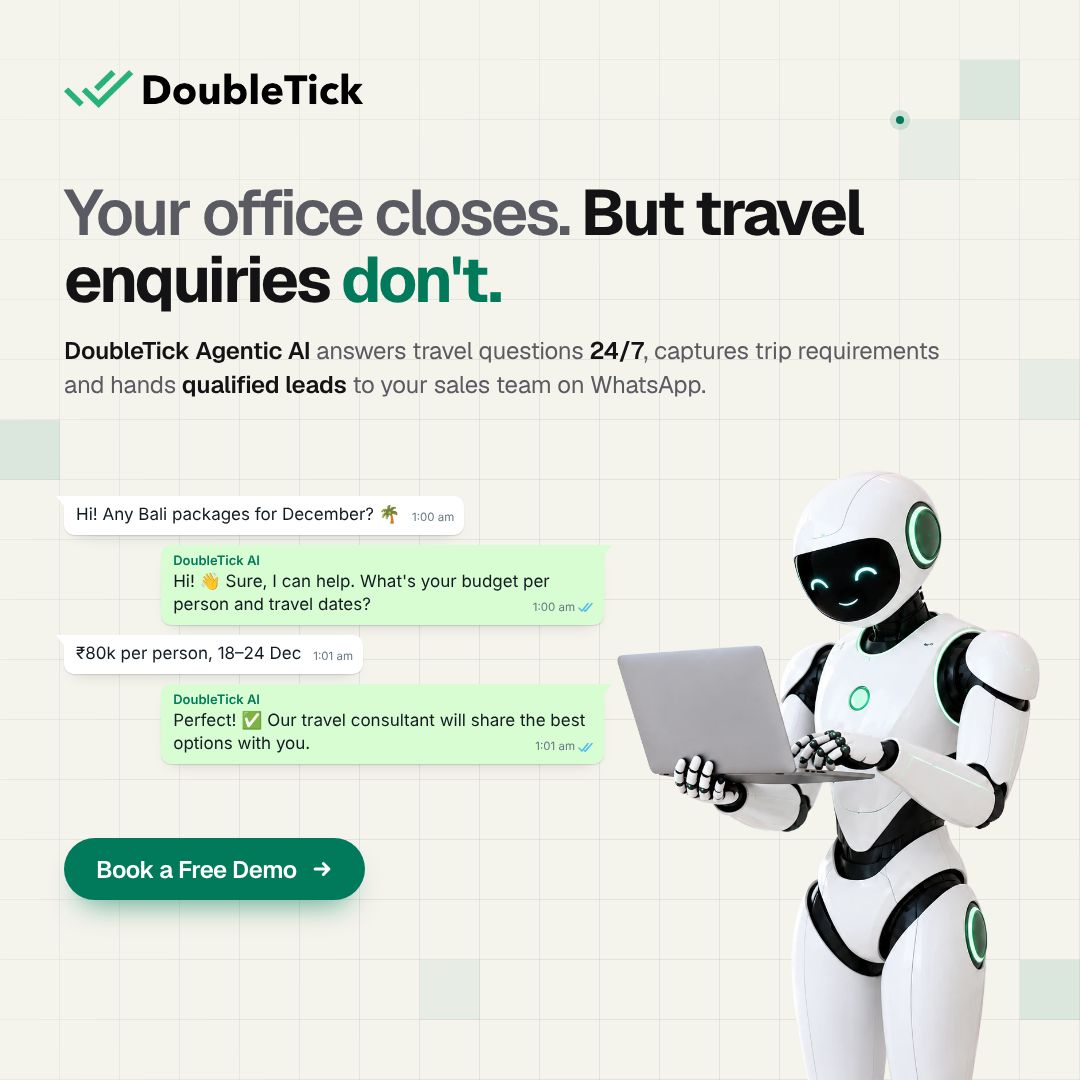
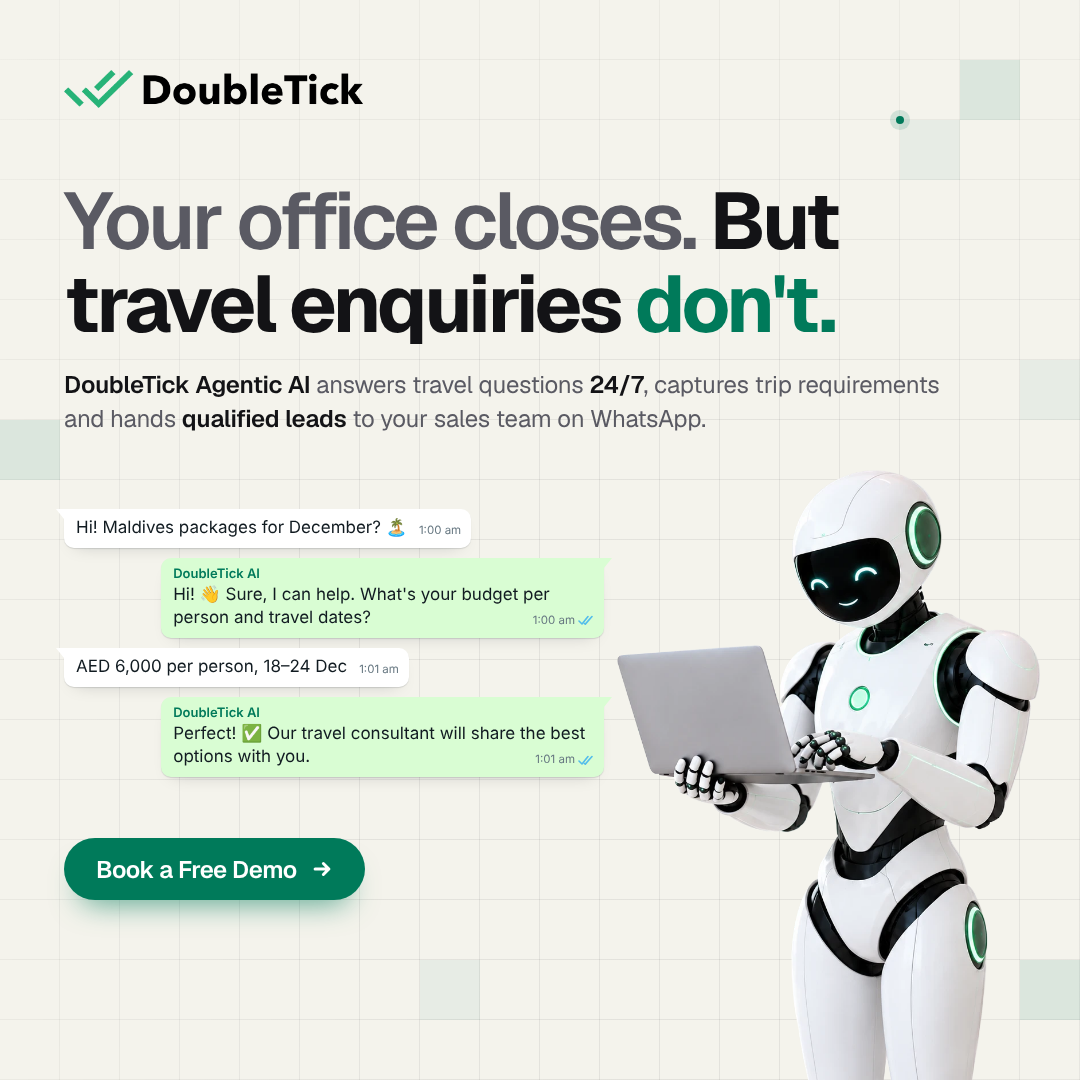
feat: 80px hook and UAE-focused chat (Maldives, AED) in travel ad
Claude-Session: https://claude.ai/code/session_01U68wzeZAut9FRgfZMxNXRM

Changed region(s): [[0.0611, 0.1528, 0.8556, 0.3972], [0.0611, 0.4583, 0.5806, 0.7333]]

diff --git a/ads/doubletick-1am-holiday/index.html b/ads/doubletick-1am-holiday/index.html
@@ -42,14 +42,14 @@
   .logo { position: absolute; top: 70px; left: 64px; height: 38px; }
 
   /* ---------- copy ---------- */
-  .headline { isolation: isolate; position: absolute; top: 180px; left: 64px; width: 950px; font-weight: 700; font-size: 64px; line-height: 1.04; letter-spacing: -0.045em; }
+  .headline { isolation: isolate; position: absolute; top: 180px; left: 64px; width: 952px; font-weight: 700; font-size: 80px; line-height: 1.04; letter-spacing: -0.045em; }
   .headline .muted { color: var(--ink-2); font-weight: 600; }
   .headline .hl { color: var(--green); white-space: nowrap; }
-  .sub { position: absolute; top: 334px; left: 64px; width: 900px; font-size: 24px; line-height: 1.4; color: var(--ink-2); letter-spacing: -0.01em; }
+  .sub { position: absolute; top: 368px; left: 64px; width: 900px; font-size: 24px; line-height: 1.4; color: var(--ink-2); letter-spacing: -0.01em; }
   .sub b { color: var(--ink); font-weight: 600; }
 
   /* ---------- WhatsApp messages ---------- */
-  .wa-msgs { position: absolute; left: 64px; top: 450px; width: 540px; height: 360px; display: flex; flex-direction: column; justify-content: center; gap: 10px; font-family: "Inter", "Segoe UI", Helvetica, Arial, sans-serif; }
+  .wa-msgs { position: absolute; left: 64px; top: 468px; width: 540px; height: 350px; display: flex; flex-direction: column; justify-content: center; gap: 10px; font-family: "Inter", "Segoe UI", Helvetica, Arial, sans-serif; }
   .b { position: relative; max-width: 82%; padding: 7px 10px 9px 12px; border-radius: 10px; font-size: 17px; line-height: 1.35; color: #111B21; box-shadow: 0 1px 1px rgba(11,20,26,0.12), 0 8px 18px -12px rgba(11,20,26,0.25); }
   .b .meta { float: right; margin: 7px 0 -4px 12px; font-size: 11.5px; color: #667781; display: inline-flex; align-items: center; gap: 3px; }
   .b .sender { display: block; font-size: 13px; font-weight: 600; color: #007A5A; margin-bottom: 1px; }
@@ -91,9 +91,9 @@
 
   <!-- WhatsApp messages: traveller (white, left) / DoubleTick AI (green, right) -->
   <div class="wa-msgs">
-    <div class="b in">Hi! Any Bali packages for December? 🌴<span class="meta">1:00 am</span></div>
+    <div class="b in">Hi! Maldives packages for December? 🏝<span class="meta">1:00 am</span></div>
     <div class="b out"><span class="sender">DoubleTick AI</span>Hi! 👋 Sure, I can help. What's your budget per person and travel dates?<span class="meta">1:00 am <svg width="16" height="11" viewBox="0 0 16 11" fill="none" stroke="#53BDEB" stroke-width="1.6" stroke-linecap="round" stroke-linejoin="round"><path d="M1 6l3 3 6-7.5M6.5 8.5l.8.6L14 1.5"/></svg></span></div>
-    <div class="b in">₹80k per person, 18–24 Dec<span class="meta">1:01 am</span></div>
+    <div class="b in">AED 6,000 per person, 18–24 Dec<span class="meta">1:01 am</span></div>
     <div class="b out"><span class="sender">DoubleTick AI</span>Perfect! ✅ Our travel consultant will share the best options with you.<span class="meta">1:01 am <svg width="16" height="11" viewBox="0 0 16 11" fill="none" stroke="#53BDEB" stroke-width="1.6" stroke-linecap="round" stroke-linejoin="round"><path d="M1 6l3 3 6-7.5M6.5 8.5l.8.6L14 1.5"/></svg></span></div>
   </div>
 
